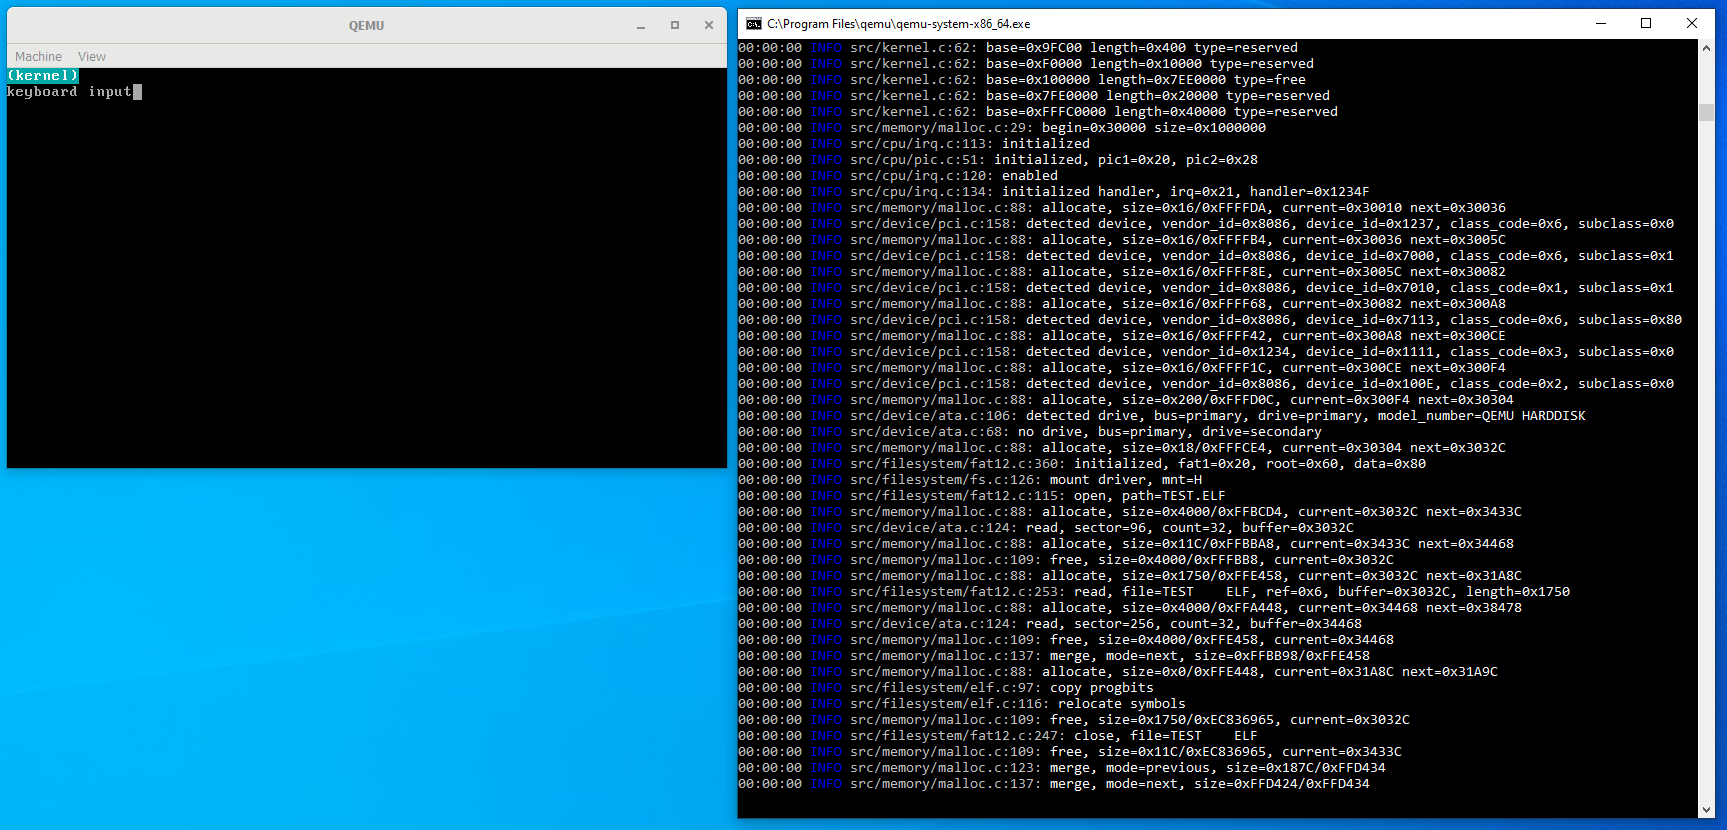
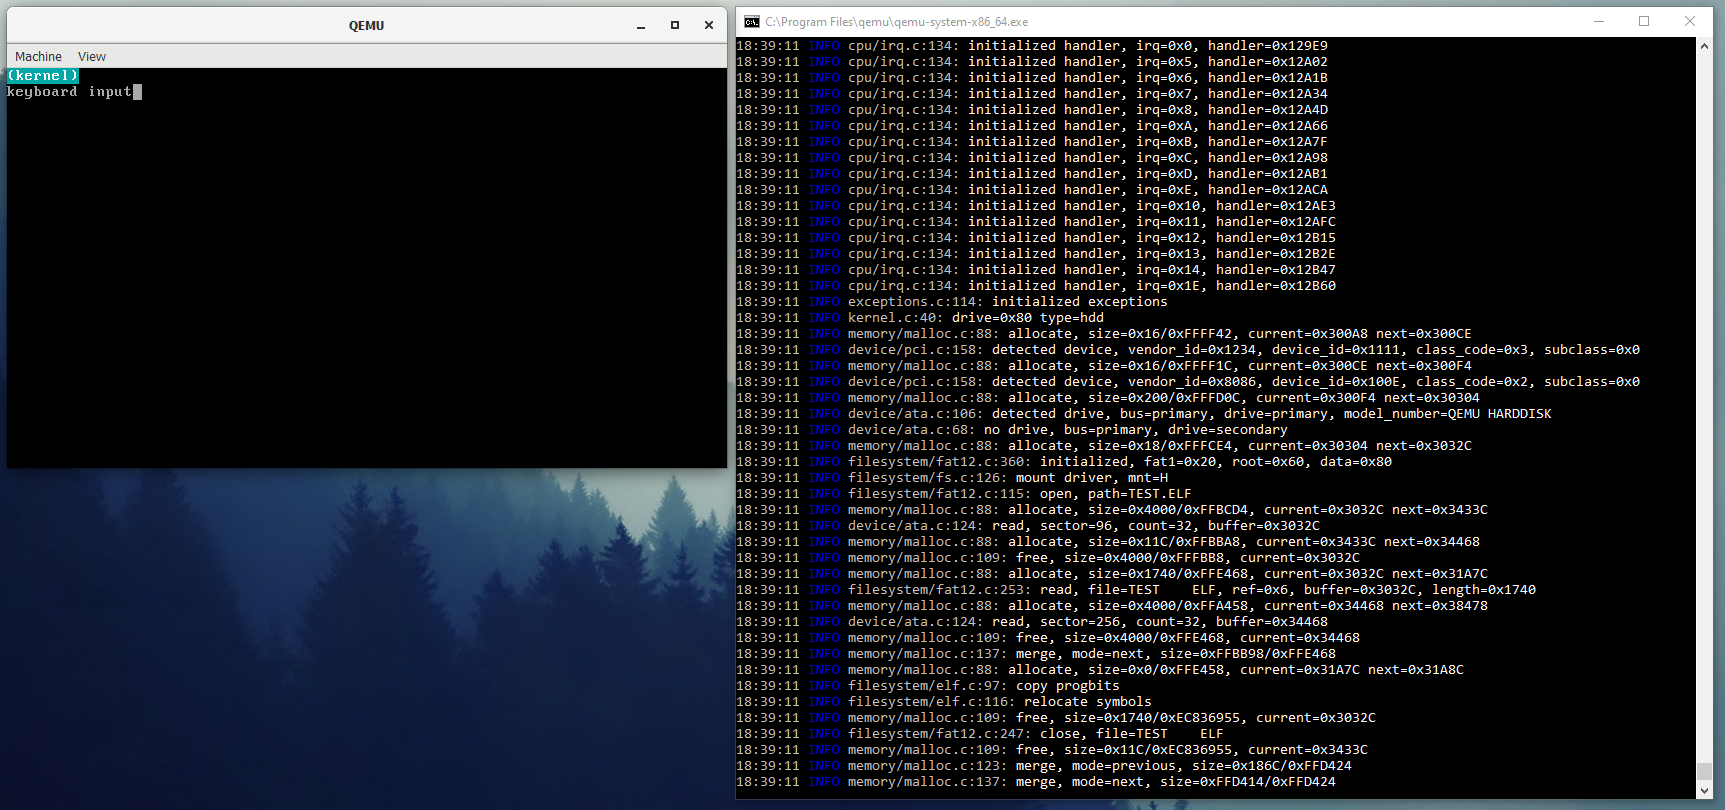
Add CMOS RTC driver (#13)
* feat: add rtc driver

* feat: update screenshot

diff --git a/kernel/src/debug.c b/kernel/src/debug.c
@@ -2,14 +2,15 @@
 #include "debug.h"
 #include "display/display.h"
 #include "device/serial.h"
+#include "drivers/cmos.h"
 
 #ifdef DEBUG_SERIAL
 #define DEBUG_FORMATTED
 #define dputc(c) serial_putc(SERIAL_COM1, c)
 #define dputs(s) serial_puts(SERIAL_COM1, s)
 #else
-#define dputc putc
-#define dputs puts
+#define dputc(c) putc(c)
+#define dputs(s) puts(s)
 #endif
 
 #define DEBUG_TYPE_TRACE 0x1
@@ -29,50 +30,57 @@ void dprintf(size_t type, string file, __attribute__((unused)) const char *funct
     string type_str = "";
     switch (type)
     {
-    case DEBUG_TYPE_TRACE:
 #ifdef DEBUG_FORMATTED
+    case DEBUG_TYPE_TRACE:
         type_str = "\e[1;34mTRACE\e[0m";
-#else
-        type_str = "TRACE";
-#endif
         break;
     case DEBUG_TYPE_DEBUG:
-#ifdef DEBUG_FORMATTED
         type_str = "\e[1;34mDEBUG\e[0m";
-#else
-        type_str = "DEBUG";
-#endif
         break;
     case DEBUG_TYPE_INFO:
-#ifdef DEBUG_FORMATTED
         type_str = "\e[1;34mINFO\e[0m";
-#else
-        type_str = "INFO";
-#endif
         break;
     case DEBUG_TYPE_WARN:
-#ifdef DEBUG_FORMATTED
         type_str = "\e[1;93mWARN\e[0m";
-#else
-        type_str = "WARN";
-#endif
         break;
     case DEBUG_TYPE_ERROR:
-#ifdef DEBUG_FORMATTED
         type_str = "\e[1;31mERROR\e[0m";
-#else
-        type_str = "ERROR";
-#endif
         break;
+#else
+    case DEBUG_TYPE_TRACE:
+        type_str = "TRACE";
+        break;
+    case DEBUG_TYPE_DEBUG:
+        type_str = "DEBUG";
+        break;
+    case DEBUG_TYPE_INFO:
+        type_str = "INFO";
+        break;
+    case DEBUG_TYPE_WARN:
+        type_str = "WARN";
+        break;
+    case DEBUG_TYPE_ERROR:
+        type_str = "ERROR";
+        break;
+#endif
     default:
         break;
     }
 
-    // TODO: Get time from CMOS.
-    sprintf(buffer, "00:00:00 %s %s:%d: ", type_str, &file[4], line);
+    // Print time.
+    time_t time = cmos_time();
+    sprintf(buffer, time.hour < 10 ? "0%d:" : "%d:", time.hour);
+    dputs(buffer);
+    sprintf(buffer, time.minute < 10 ? "0%d:" : "%d:", time.minute);
+    dputs(buffer);
+    sprintf(buffer, time.second < 10 ? "0%d " : "%d ", time.second);
     dputs(buffer);
 
-    // Format string.
+    // Print debug info.
+    sprintf(buffer, "%s %s:%d: ", type_str, &file[4], line);
+    dputs(buffer);
+
+    // Print string.
     va_list ap;
     va_start(ap, format);
     sprintf_va(buffer, format, ap);
@@ -81,7 +89,6 @@ void dprintf(size_t type, string file, __attribute__((unused)) const char *funct
 #ifdef DEBUG_FORMATTED
     dputs("\e[1m");
 #endif
-    // Print string.
     dputs(buffer);
 #ifdef DEBUG_FORMATTED
     dputs("\e[0m\n");

diff --git a/kernel/src/drivers/cmos.c b/kernel/src/drivers/cmos.c
@@ -1,0 +1,68 @@
+#include <stdbool.h>
+#include "drivers/cmos.h"
+#include "cpu/io.h"
+#include "debug.h"
+
+#define CMOS_ADDRESS 0x70
+#define CMOS_DATA 0x71
+
+#define CMOS_RTC_SECOND 0x00
+#define CMOS_RTC_MINUTE 0x02
+#define CMOS_RTC_HOUR 0x04
+#define CMOS_RTC_DAY 0x07
+#define CMOS_RTC_MONTH 0x08
+#define CMOS_RTC_YEAR 0x09
+
+bool cmos_wait()
+{
+    outb(CMOS_ADDRESS, 0x0A);
+    return inb(CMOS_DATA) & 0x80;
+}
+
+uint8_t cmos_read(size_t offset)
+{
+    outb(CMOS_ADDRESS, offset);
+    return inb(CMOS_DATA);
+}
+
+void cmos_write(size_t offset, uint8_t value)
+{
+    outb(CMOS_ADDRESS, offset);
+    outb(CMOS_DATA, value);
+}
+
+time_t cmos_time()
+{
+    time_t time;
+
+    while (cmos_wait())
+        ;
+
+    // Read RTC registers.
+    time.second = cmos_read(CMOS_RTC_SECOND);
+    time.minute = cmos_read(CMOS_RTC_MINUTE);
+    time.hour = cmos_read(CMOS_RTC_HOUR);
+    time.day = cmos_read(CMOS_RTC_DAY);
+    time.month = cmos_read(CMOS_RTC_MONTH);
+    time.year = cmos_read(CMOS_RTC_YEAR);
+
+    uint8_t status = cmos_read(0xB);
+
+    // Convert BCD to binary.
+    if (!(status & 0x4))
+    {
+        time.second = (time.second & 0xF) + ((time.second / 16) * 10);
+        time.minute = (time.minute & 0xF) + ((time.minute / 16) * 10);
+        time.hour = ((time.hour & 0xF) + (((time.hour & 0x70) / 16) * 10)) + (time.hour & 0x80);
+        time.day = (time.day & 0xF) + ((time.day / 16) * 10);
+        time.month = (time.month & 0xF) + ((time.month / 16) * 10);
+        time.year = (time.year & 0xF) + ((time.year / 16) * 10);
+    }
+
+    // Convert 12 hour clock to 24 hour clock.
+    if (!(status & 0x02) && (time.hour & 0x80))
+    {
+        time.hour = ((time.hour & 0x7F) + 12) % 24;
+    }
+    return time;
+}

diff --git a/kernel/src/kernel.c b/kernel/src/kernel.c
@@ -103,13 +103,13 @@ void main(const boot_info *boot_info)
         void *elf_buffer;
         uint32_t elf_entry;
         elf_read(file, &elf_buffer, &elf_entry);
-        uint32_t (*elf_main)(void) = (uint32_t (*)(void)) ((uint32_t)elf_buffer + elf_entry);
+        __attribute__((unused)) uint32_t (*elf_main)(void) = (uint32_t(*)(void))((uint32_t)elf_buffer + elf_entry);
 
         // Close file.
         fs_close(file);
 
-        // Run file.
-        elf_main();
+        // // Run file.
+        // elf_main();
     }
 
     while (1)

diff --git a/kernel/include/drivers/cmos.h b/kernel/include/drivers/cmos.h
@@ -1,0 +1,18 @@
+#ifndef DRIVERS_CMOS_H_
+#define DRIVERS_CMOS_H_
+
+#include <stdint.h>
+
+typedef struct time_t
+{
+    uint8_t second;
+    uint8_t minute;
+    uint8_t hour;
+    uint8_t day;
+    uint8_t month;
+    uint8_t year;
+} time_t;
+
+time_t cmos_time();
+
+#endif // DRIVERS_CMOS_H_
